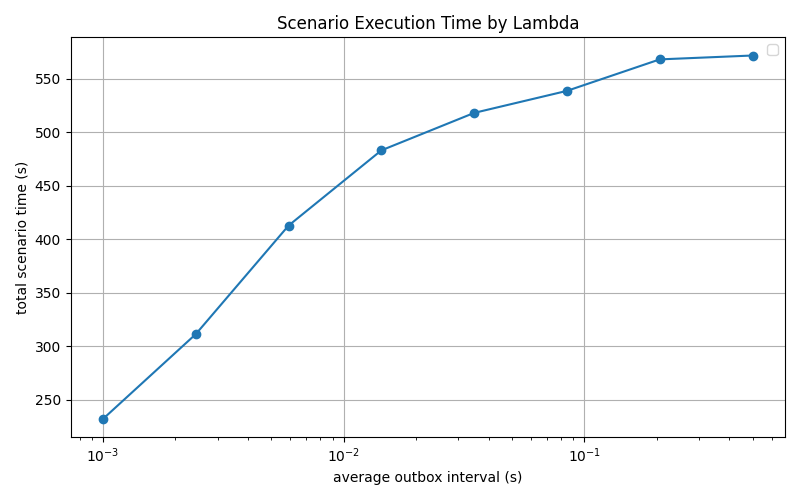
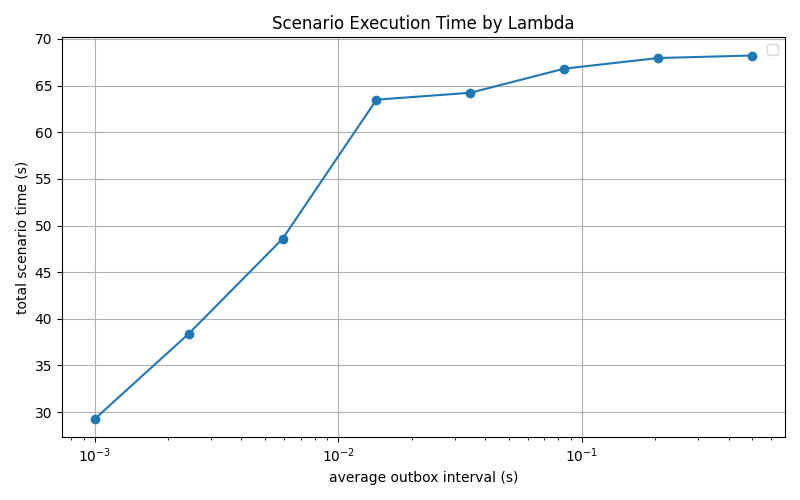
added experiment for rtts

diff --git a/frontend/src/constants/constants.js b/frontend/src/constants/constants.js
@@ -28,7 +28,8 @@ export const METRIC_KEYS = {
   ROUND_TIME: 'round_time',
   UNACKED_MSG: 'unacked_msg',
   RECEIVED_DUPLICATE_MSG: 'received_duplicate_msg',
-  CURRENT_STAGE: 'stage'
+  CURRENT_STAGE: 'stage',
+  AVG_RTT: 'avg_rtt'
 };
 
 export const METRIC_FIELDS = {
@@ -53,7 +54,8 @@ export const METRIC_FIELDS = {
   [METRIC_KEYS.ROUND_TIME]: 'Time per Round (s)',
   [METRIC_KEYS.UNACKED_MSG]: 'Unacknowledged Fragments',
   [METRIC_KEYS.RECEIVED_DUPLICATE_MSG]: 'Received Duplicate Messages',
-  [METRIC_KEYS.CURRENT_STAGE]: 'Current Stage'
+  [METRIC_KEYS.CURRENT_STAGE]: 'Current Stage',
+  [METRIC_KEYS.AVG_RTT]: 'Average RTT'
 };
 
 export const METRIC_GROUPS = {
@@ -64,7 +66,8 @@ export const METRIC_GROUPS = {
     METRIC_KEYS.TOTAL_MBYTES_RECEIVED,
     METRIC_KEYS.UNACKED_MSG,
     METRIC_KEYS.RESENT,
-    METRIC_KEYS.RECEIVED_DUPLICATE_MSG
+    METRIC_KEYS.RECEIVED_DUPLICATE_MSG,
+    METRIC_KEYS.AVG_RTT
   ],
   'Model Exchange': [
     METRIC_KEYS.FRAGMENTS_SENT,

diff --git a/node/communication/sphinx/cache.py b/node/communication/sphinx/cache.py
@@ -3,6 +3,7 @@ from dataclasses import dataclass
 from datetime import datetime, timedelta, timezone
 from typing import List
 import logging
+import numpy as np
 
 from metrics.node_metrics import metrics, MetricField
 from utils.exception_decorator import log_exceptions
@@ -25,6 +26,7 @@ class Cache:
         self.cache = {}
         self.out_counter = 0
         self.in_counter = 0
+        self.rtts = []
 
     @log_exceptions
     def new_fragment(self, surb_id: bytes, surb_key_tuple: tuple, target_node: int, payload: bytes, cover: bool):
@@ -38,6 +40,10 @@ class Cache:
     @log_exceptions
     def received_surb(self, surb_id):
         self.set_acked(surb_id)
+        now = datetime.now(timezone.utc)
+        start = self.cache[surb_id].timestamp
+        self.rtts.append((now - start).total_seconds())
+        metrics().set(MetricField.AVG_RTT, np.mean(self.rtts))
         self.in_counter += 1
         return self.cache[surb_id].surb_key_tuble
 

diff --git a/node/metrics/node_metrics.py b/node/metrics/node_metrics.py
@@ -35,14 +35,14 @@ class MetricField(Enum):
     ROUND_TIME = "round_time"
     UNACKED_MSG = "unacked_msg"
     RECEIVED_DUPLICATE_MSG = "received_duplicate_msg"
+    AVG_RTT = "avg_rtt"
 
     STAGE = "stage"
     """
       Training: 1,
-      Broadcasting: 2
-      Validation: 3
-      Collection: 4
-      Aggregation: 5
+      Local Aggregation: 2
+      Broadcasting and Collection: 3
+      Global Aggregation: 4
     """
 
 

diff --git a/node/utils/config_store.py b/node/utils/config_store.py
@@ -18,7 +18,7 @@ class ConfigStore:
     join_nodes: List[int] = field(default_factory=lambda:list)
     stream_mode: bool = False
     mix_enabled: bool = True
-    mix_lambda: float = 0.01
+    mix_lambda: float = 0.001
     mix_shuffle: bool = True
     nr_cover_bytes: int = 100
     n_fragments_per_model: int = 200
